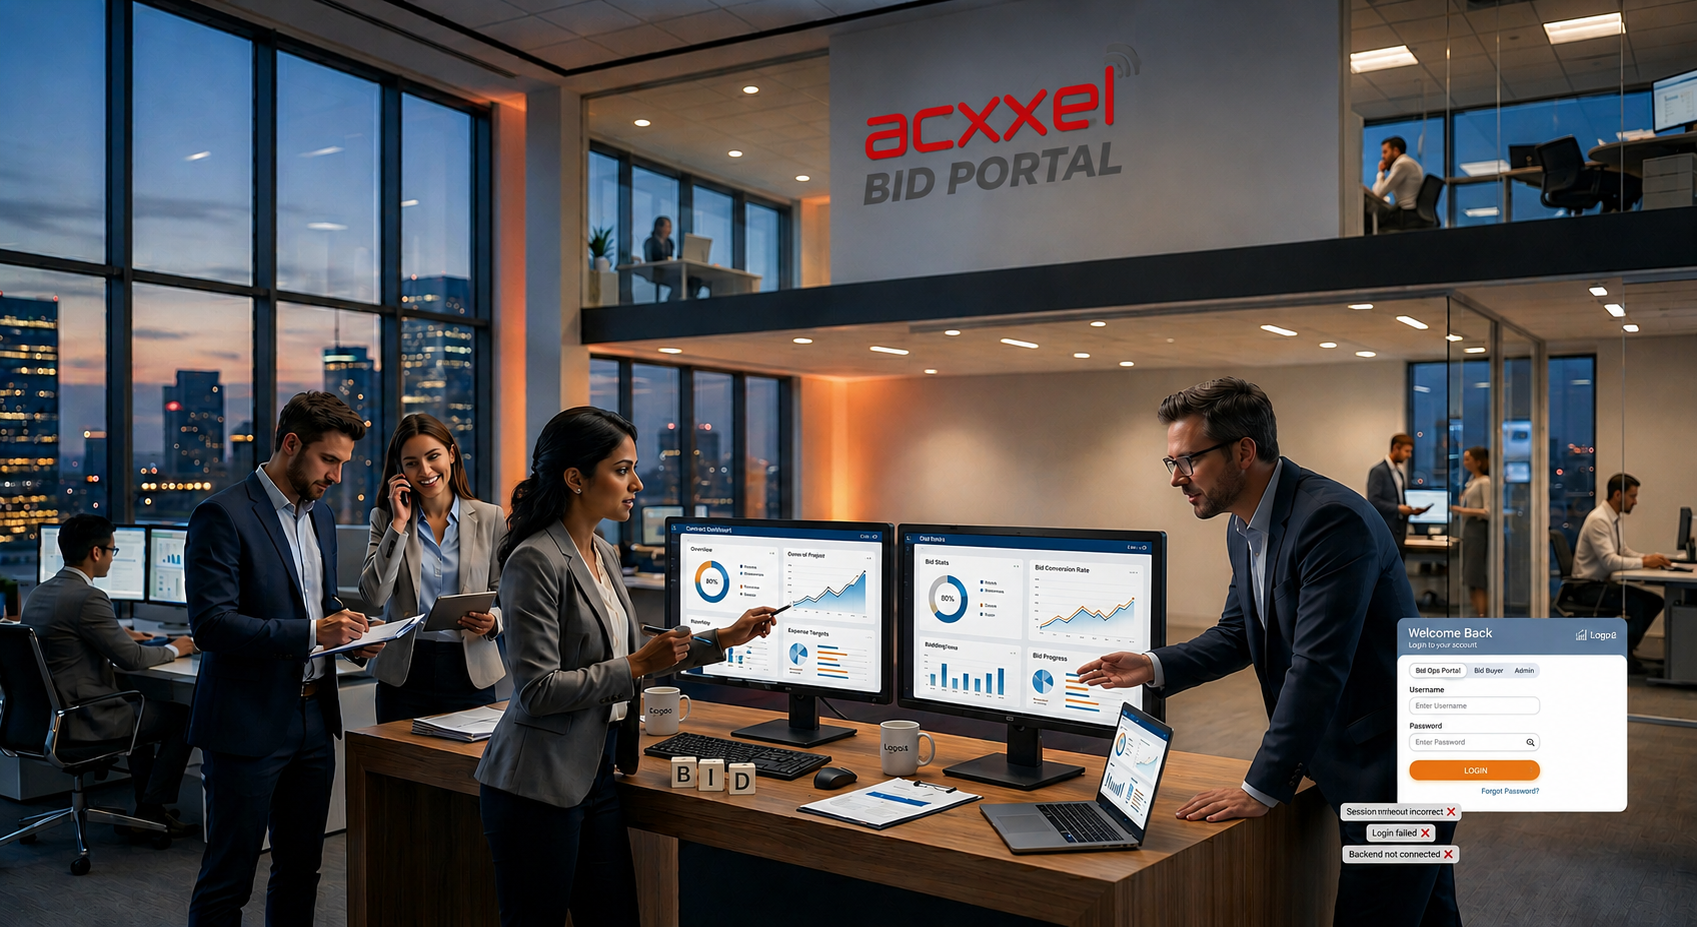
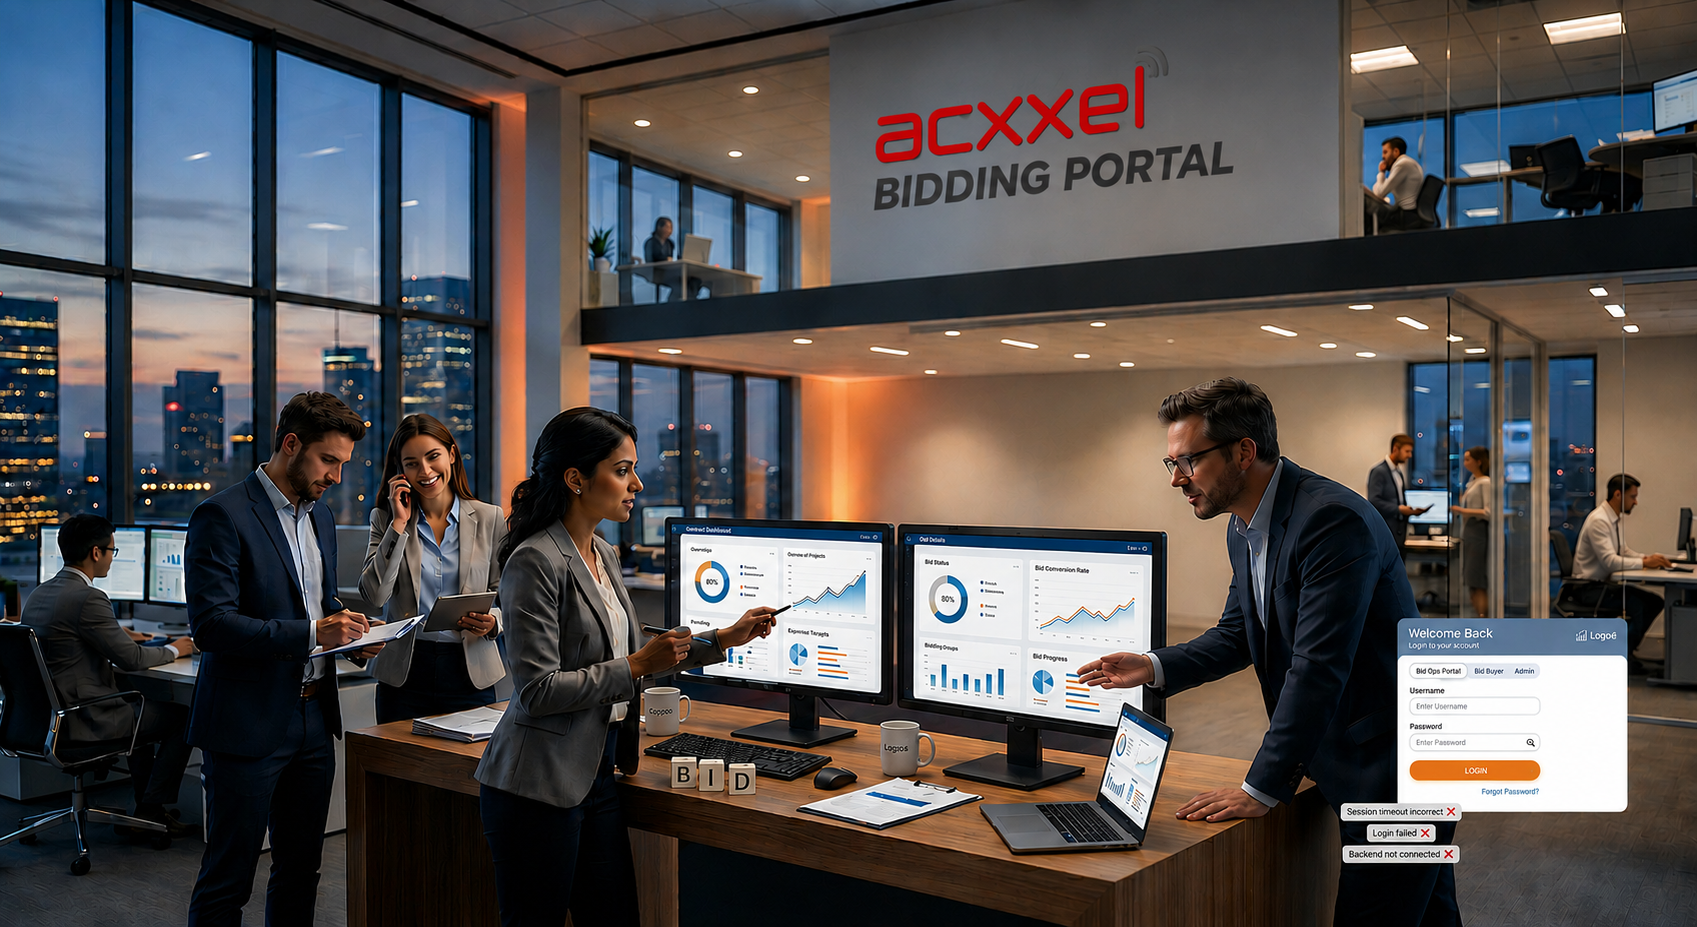
model save

diff --git a/backend/accounts/views/Desktop.py b/backend/accounts/views/Desktop.py
@@ -2865,14 +2865,9 @@ def save_model_number(request, bid_id):
 
         model_number = model_number.strip()
 
-        duplicate_exists = DesktopBid.objects.filter(
-            model_number__iexact=model_number
-        ).exclude(id=bid.id).exists()
-
-        if duplicate_exists:
-            return JsonResponse({
-                "error": "Duplicate model number is not allowed."
-            }, status=400)
+        catalogue_product = CatalogueProduct.objects.filter(
+            model_no__iexact=model_number
+        ).first()
 
         bid.model_number = model_number
 
@@ -2887,6 +2882,8 @@ def save_model_number(request, bid_id):
             "bid_id": bid.id,
             "model_number": bid.model_number,
             "model": bid.model_number,
+            "product_id": catalogue_product.id if catalogue_product else None,
+            "source": "catalogue" if catalogue_product else "bid",
             "status": bid.status,
             "review_status": bid.review_status,
         }, status=200)
@@ -3771,6 +3768,45 @@ def _best_catalogue_match(bid_key, bid_value, product, catalogue_keys):
     return matched, best_key, best_value, best_score
 
 
+_BID_DIRECT_FIELD_MAP = {
+    "processor": "processor",
+    "ram": "ram",
+    "hdd": "hdd",
+    "ssd": "ssd1",
+    "os": "os",
+    "dvd": "dvd",
+    "wifi": "wifi",
+    "motherboard": "motherboard",
+    "monitor": "monitor",
+    "cabinet": "cabinet",
+    "keyboard": "keyboard",
+    "warranty": "warranty",
+}
+
+
+def _best_bid_match(bid_key, bid_value, other_bid):
+    """Compare current bid's spec value against another already-saved bid's
+    direct fields (used for finding a duplicate/matching model number
+    among bids, same way we do for CatalogueProduct)."""
+    if _match_is_blank(bid_value):
+        return None, "", "", -1
+
+    field_name = _BID_DIRECT_FIELD_MAP.get(bid_key)
+    if not field_name:
+        return False, "", "", -1
+
+    other_value = getattr(other_bid, field_name, "") or ""
+    if bid_key == "ssd" and _match_is_blank(other_value):
+        other_value = getattr(other_bid, "ssd2", "") or ""
+
+    if _match_is_blank(other_value):
+        return False, "", "", -1
+
+    score = _values_overlap_score(bid_value, other_value)
+    matched = score >= 100
+    return matched, field_name, other_value, score
+
+
 def _body_json(request):
     try:
         if request.body:
@@ -3861,7 +3897,67 @@ def match_catalogue_models(request, bid_id):
         result = {
             "model_no": product.model_no or "",
             "product_id": product.id,
+            "bid_id": None,
+            "source": "catalogue",
             "category": product.category or "",
+            "match_count": matched_count,
+            "total_checked": checked_count,
+            "total_score": round(total_score, 2),
+            "is_perfect": is_perfect,
+            "debug_details": details,
+        }
+        results.append(result)
+        debug_all.append(result)
+
+    # ---- Ab DesktopBid table se bhi check karo (already saved/model-assigned bids) ----
+    other_bids_qs = (
+        DesktopBid.objects.exclude(id=bid.id)
+        .exclude(model_number__isnull=True)
+        .exclude(model_number="")
+    )
+
+    for other_bid in other_bids_qs:
+        matched_count = 0
+        checked_count = 0
+        total_score = 0
+        details = []
+
+        for bid_key in _CATALOGUE_FIELD_MAP.keys():
+            bid_value = bid_specs.get(bid_key, "")
+            if _match_is_blank(bid_value):
+                continue
+
+            matched, best_key, best_value, best_score = _best_bid_match(
+                bid_key, bid_value, other_bid
+            )
+            checked_count += 1
+
+            if matched:
+                matched_count += 1
+                total_score += max(float(best_score or 0), 0)
+            else:
+                total_score += max(float(best_score or 0), 0) * 0.25
+
+            details.append({
+                "field": bid_key,
+                "bid_value": bid_value,
+                "matched": bool(matched),
+                "catalogue_key": best_key,
+                "catalogue_value": best_value,
+                "score": best_score,
+            })
+
+        if checked_count == 0:
+            continue
+
+        is_perfect = checked_count >= MIN_STRONG_MATCH_FIELDS and matched_count == checked_count
+
+        result = {
+            "model_no": other_bid.model_number or "",
+            "product_id": None,
+            "bid_id": other_bid.id,
+            "source": "bid",
+            "category": "",
             "match_count": matched_count,
             "total_checked": checked_count,
             "total_score": round(total_score, 2),
@@ -3892,6 +3988,8 @@ def match_catalogue_models(request, bid_id):
     best_public = {
         "model_no": best["model_no"],
         "product_id": best["product_id"],
+        "bid_id": best["bid_id"],
+        "source": best["source"],
         "category": best["category"],
     }
 

diff --git a/backend/accounts/migrations/0026_alter_catalogueproduct_model_no_and_more.py b/backend/accounts/migrations/0026_alter_catalogueproduct_model_no_and_more.py
@@ -1,0 +1,28 @@
+# Generated by Django 6.0.4 on 2026-07-06 11:47
+
+from django.db import migrations, models
+
+
+class Migration(migrations.Migration):
+
+    dependencies = [
+        ('accounts', '0025_rename_workstationconfig_workstationbid'),
+    ]
+
+    operations = [
+        migrations.AlterField(
+            model_name='catalogueproduct',
+            name='model_no',
+            field=models.CharField(max_length=255),
+        ),
+        migrations.AlterField(
+            model_name='desktopbid',
+            name='model_number',
+            field=models.CharField(blank=True, max_length=255, null=True),
+        ),
+        migrations.AlterField(
+            model_name='workstationbid',
+            name='model_number',
+            field=models.CharField(blank=True, max_length=255, null=True),
+        ),
+    ]

diff --git a/backend/accounts/migrations/0027_alter_catalogueproduct_model_no_and_more.py b/backend/accounts/migrations/0027_alter_catalogueproduct_model_no_and_more.py
@@ -1,0 +1,23 @@
+# Generated by Django 6.0.4 on 2026-07-07 05:28
+
+from django.db import migrations, models
+
+
+class Migration(migrations.Migration):
+
+    dependencies = [
+        ('accounts', '0026_alter_catalogueproduct_model_no_and_more'),
+    ]
+
+    operations = [
+        migrations.AlterField(
+            model_name='catalogueproduct',
+            name='model_no',
+            field=models.CharField(max_length=255, unique=True),
+        ),
+        migrations.AlterField(
+            model_name='workstationbid',
+            name='model_number',
+            field=models.CharField(blank=True, max_length=255, null=True, unique=True),
+        ),
+    ]

diff --git a/backend/accounts/models.py b/backend/accounts/models.py
@@ -129,7 +129,7 @@ class DesktopBid(models.Model):
     # Optional ports — filled by analyser only during re-analyze (when admin requests via admin_note)
     optional_ports = models.TextField(blank=True, null=True)
 
-    model_number = models.CharField(max_length=255, blank=True, unique=True, null=True)
+    model_number = models.CharField(max_length=255, blank=True, null=True)
 
     analyser_note = models.TextField(blank=True, null=True)
     analyser_username = models.CharField(max_length=100, blank=True, null=True)
